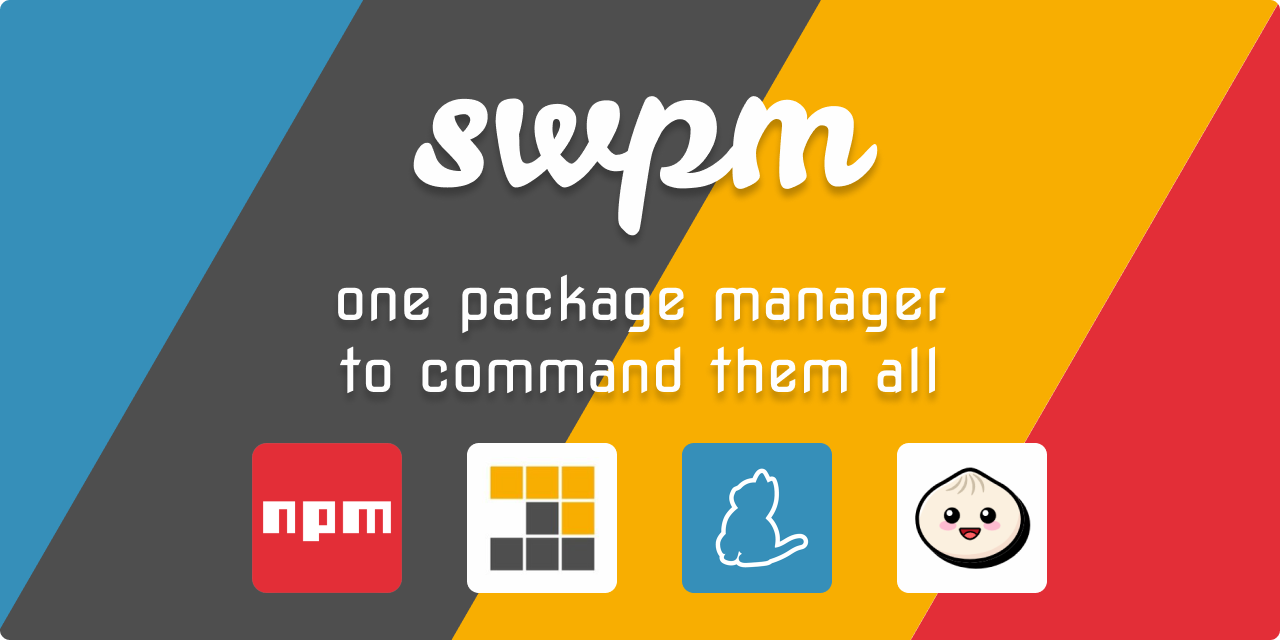
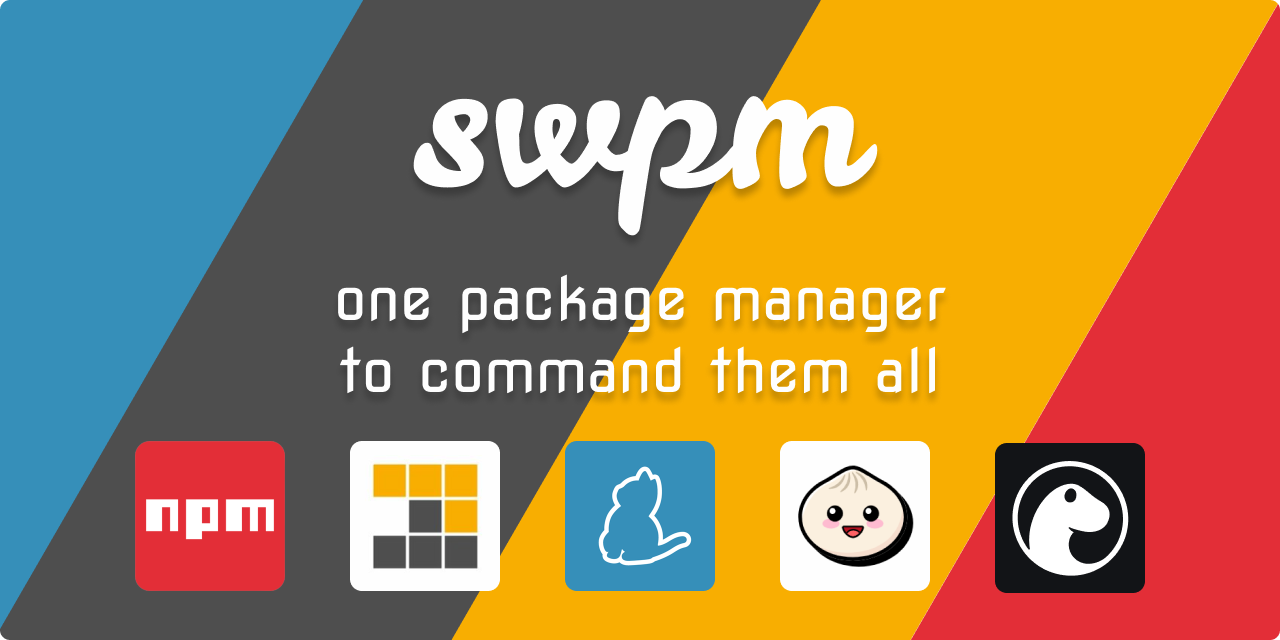
feat: add deno support

Changed region(s): [[0.0938, 0.6875, 0.9062, 0.9375]]

diff --git a/src/helpers/get.test.ts b/src/helpers/get.test.ts
@@ -1,5 +1,5 @@
 import { it, expect, describe, vi } from 'vitest'
-import { commandVerification, detectVoltaPin } from './get'
+import { commandVerification, detectVoltaPin, getCurrentPackageManager } from './get'
 import { CommanderPackage, PackageJson } from '../translator/commander.types'
 import { getPackageJson } from './files.js'
 
@@ -7,12 +7,13 @@ vi.mock('./files.ts', async () => {
   const mod = await vi.importActual<typeof import('./files.ts')>('./files.ts')
   return {
     ...mod,
-    getPackageJson: await vi.fn()
+    getPackageJson: vi.fn()
   }
 })
 
 describe('detectVoltaPin', () => {
   it('should return undefined if cmdr is undefined', async () => {
+    vi.mocked(getPackageJson).mockResolvedValue(undefined)
     const cmdr = undefined
     // @ts-expect-error cmdr is intentionally undefined
     const result = await detectVoltaPin(cmdr)
@@ -20,6 +21,7 @@ describe('detectVoltaPin', () => {
   })
 
   it('should return undefined if cmd in cmdr is undefined', async () => {
+    vi.mocked(getPackageJson).mockResolvedValue(undefined)
     const cmdr: CommanderPackage = {
       args: []
     }
@@ -81,5 +83,33 @@ describe('detectVoltaPin', () => {
     const isVoltaInstalled = await commandVerification('volta')
     const result = await detectVoltaPin(cmdr)
     expect(isVoltaInstalled && result).toBe(false)
+  })
+})
+
+describe('getCurrentPackageManager', () => {
+  it('should return deno if deno.json exists', async () => {
+    vi.mocked(getPackageJson).mockReset()
+    vi.mocked(getPackageJson).mockImplementation(async (fileName) => {
+      if (fileName === 'deno.json') {
+        return { name: 'deno-project' } as PackageJson
+      }
+      return undefined
+    })
+
+    const result = await getCurrentPackageManager()
+    expect(result).toEqual({ origin: 'lock', cmd: 'deno' })
+  })
+
+  it('should return deno if deno.jsonc exists', async () => {
+    vi.mocked(getPackageJson).mockReset()
+    vi.mocked(getPackageJson).mockImplementation(async (fileName) => {
+      if (fileName === 'deno.jsonc') {
+        return { name: 'deno-project' } as PackageJson
+      }
+      return undefined
+    })
+
+    const result = await getCurrentPackageManager()
+    expect(result).toEqual({ origin: 'lock', cmd: 'deno' })
   })
 })

diff --git a/src/cli/swpm/commands/add.test.ts b/src/cli/swpm/commands/add.test.ts
@@ -7,7 +7,8 @@ export const addCases = [
   ['yarn', 'yarn add vite'],
   ['yarn@berry', 'yarn add vite'],
   ['pnpm', 'pnpm add vite'],
-  ['bun', 'bun add vite']
+  ['bun', 'bun add vite'],
+  ['deno', 'deno add vite']
 ]
 
 describe('add', () => {
@@ -22,7 +23,8 @@ export const addDevCases = [
   ['yarn', 'yarn add vite --dev'],
   ['yarn@berry', 'yarn add vite --dev'],
   ['pnpm', 'pnpm add vite --save-dev'],
-  ['bun', 'bun add vite --dev']
+  ['bun', 'bun add vite --dev'],
+  ['deno', 'deno add vite --dev']
 ]
 
 describe('add --save-dev', () => {
@@ -38,7 +40,8 @@ describe('add --save-optional', () => {
     ['yarn', 'yarn add vite --optional'],
     ['yarn@berry', 'yarn add vite --optional'],
     ['pnpm', 'pnpm add vite --save-optional'],
-    ['bun', 'bun add vite --optional']
+    ['bun', 'bun add vite --optional'],
+    ['deno', 'deno add vite --optional']
   ])('%s', (pkg, expected) => {
     const result = testCommandResult(`swpm add vite --save-optional --test ${pkg}`)
     expect(result).toBe(expected)
@@ -51,7 +54,8 @@ describe('add --save-peer', () => {
     ['yarn', 'yarn add vite --peer'],
     ['yarn@berry', 'yarn add vite --peer'],
     ['pnpm', 'pnpm add vite --save-peer'],
-    ['bun', ''] // not available
+    ['bun', ''], // not available
+    ['deno', 'deno add vite --peer']
   ])('%s', (pkg, expected) => {
     const result = testCommandResult(`swpm add vite --save-peer --test ${pkg}`)
     expect(result).toBe(expected)
@@ -63,7 +67,8 @@ export const addSaveExact = [
   ['yarn', 'yarn add vite --exact'],
   ['yarn@berry', 'yarn add vite --exact'],
   ['pnpm', 'pnpm add vite --save-exact'],
-  ['bun', 'bun add vite --exact']
+  ['bun', 'bun add vite --exact'],
+  ['deno', ''] // not available
 ]
 
 describe('add --save-exact', () => {
@@ -86,7 +91,8 @@ export const addPackageCases = [
   ['yarn', 'yarn global add vite'],
   ['yarn@berry', 'yarn global add vite'],
   ['pnpm', 'pnpm add vite --global'],
-  ['bun', 'bun add vite --global']
+  ['bun', 'bun add vite --global'],
+  ['deno', 'deno add vite -g']
 ]
 
 const isVoltaInstalled = await commandVerification('volta')

diff --git a/src/helpers/get.ts b/src/helpers/get.ts
@@ -64,6 +64,18 @@ const searchForLockFiles = async () => {
   }
 }
 
+const searchForDenoConfig = async () => {
+  const denoJson = await getPackageJson('deno.json')
+  if (denoJson) {
+    return 'deno' as const
+  }
+
+  const denoJsonc = await getPackageJson('deno.jsonc')
+  if (denoJsonc) {
+    return 'deno' as const
+  }
+}
+
 const searchForEnv = (name: 'SWPM') => {
   if (!(name in env)) {
     return
@@ -76,7 +88,7 @@ const searchForEnv = (name: 'SWPM') => {
 
   console.error(stripIndents`
     ${chalk.red.bold('Error')}: the value (${chalk.bold(value)}) in SWPM environment variable is not valid.
-    Fix it using one of this values ${chalk.blue.bold('<npm|yarn[@berry]|pnpm|bun>')}.
+    Fix it using one of this values ${chalk.blue.bold('<npm|yarn[@berry]|pnpm|bun|deno>')}.
   `)
   exit(1)
 }
@@ -95,6 +107,11 @@ export const getCurrentPackageManager = async (): Promise<{origin: CommanderPack
     if (packageManager && packageExists(packageManager)) {
       return { origin: 'packageManager', cmd: packageManager }
     }
+  }
+
+  const deno = await searchForDenoConfig()
+  if (deno) {
+    return { origin: 'lock', cmd: deno }
   }
 
   const lock = await searchForLockFiles() as PackageManagerList
@@ -125,6 +142,8 @@ export const detectVoltaPin = async (cmdr: CommanderPackage) => {
   return (cmdr.cmd in packageJson[prop])
 }
 
+import { getCommandResult } from './cmds.js'
+
 export const commandVerification = async (cmd: PackageManagerList) => {
   try {
     await commandExists(cmd)
@@ -132,4 +151,18 @@ export const commandVerification = async (cmd: PackageManagerList) => {
   } catch {
     return false
   }
+}
+
+export const getPackageVersion = (cmd: PackageManagerList, volta: boolean) => {
+  const version = getCommandResult({ command: `${cmd} --version`, volta })
+
+  if (!version) {
+    return 'not found'
+  }
+
+  if (cmd === 'deno') {
+    return version.split('\n')[0]?.replace(/deno\s/, '') ?? 'not found'
+  }
+
+  return version
 }

diff --git a/src/packages/managers/deno.ts b/src/packages/managers/deno.ts
@@ -1,0 +1,51 @@
+import type { PackageConfiguration } from '../packages.types.js'
+
+const deno: PackageConfiguration = {
+  cmd: 'deno',
+  exc: 'deno run',
+  color: '#ffffff',
+  url: 'https://deno.com/',
+  semver: '>=2.0.0',
+  lockFiles: ['deno.lock'],
+  modulesPath: ['node_modules'],
+  modulesFile: ['deno.json', 'deno.jsonc'],
+  logFile: '',
+  install: 'deno install -g swpm',
+  cmds: {
+    remove: 'remove',
+    r: 'remove',
+    rm: 'remove',
+    un: 'remove',
+    up: ['outdated', '--update'],
+    ud: ['outdated', '--update'],
+    upgrade: 'add',
+    ug: 'add',
+    interactive: ['', -1],
+    run: 'task',
+    test: 'test',
+    init: 'init',
+    create: 'init',
+    build: ['', -1],
+    publish: 'publish',
+    outdated: 'outdated'
+  },
+  args: {
+    '--frozen': '--frozen',
+    '-F': '--frozen',
+    '--package-lock': '--no-lock',
+    '-P': '--no-lock',
+    '--save-dev': '--dev',
+    '-D': '--dev',
+    '--save-optional': '--optional',
+    '-O': '--optional',
+    '--save-peer': '--peer',
+    '--save-exact': ['', -1],
+    '-E': ['', -1],
+    '--global': '-g',
+    '-g': '-g',
+    '--latest': ['', -1],
+    '-L': ['', -1]
+  }
+}
+
+export default deno

diff --git a/src/helpers/files.ts b/src/helpers/files.ts
@@ -25,7 +25,7 @@ export const pathExists = async (path: string) => {
   }
 }
 
-export const getPackageJson = async (fileName: `${string}.json` = PACKAGE_NAME): Promise<PackageJson | undefined> => {
+export const getPackageJson = async (fileName: `${string}.json${'' | 'c'}` = PACKAGE_NAME): Promise<PackageJson | undefined> => {
   try {
     const closestPackageJsonPath = await findUp(fileName)
     if (!closestPackageJsonPath) {
@@ -48,7 +48,7 @@ export const lockFileExists = async (fileName: string) => {
   return fileExists(closestLockfilePath)
 }
 
-export const savePackageJson = async (data: PackageJson, fileName: string = PACKAGE_NAME) => {
+export const savePackageJson = async (data: PackageJson, fileName: `${string}.json${'' | 'c'}` = PACKAGE_NAME) => {
   const closestPackageJsonPath = await findUp(fileName)
   if (!closestPackageJsonPath) {
     console.error(`${chalk.red.bold('Error')}: there is no ${chalk.red.bold(fileName)} file on current path.`)

diff --git a/src/cli/swpm/commands/install.test.ts b/src/cli/swpm/commands/install.test.ts
@@ -6,7 +6,8 @@ export const installCases = [
   ['yarn', 'yarn install'],
   ['yarn@berry', 'yarn install'],
   ['pnpm', 'pnpm install'],
-  ['bun', 'bun install']
+  ['bun', 'bun install'],
+  ['deno', 'deno install']
 ]
 
 describe('install', () => {
@@ -21,7 +22,8 @@ export const installFrozenCases = [
   ['yarn', 'yarn install --frozen-lockfile'],
   ['yarn@berry', 'yarn install --immutable'],
   ['pnpm', 'pnpm install --frozen-lockfile'],
-  ['bun', 'bun install --frozen-lockfile']
+  ['bun', 'bun install --frozen-lockfile'],
+  ['deno', 'deno install --frozen']
 ]
 
 describe('install --frozen', () => {
@@ -36,7 +38,8 @@ export const installLockCases = [
   ['yarn', 'yarn install --no-lockfile'],
   ['yarn@berry', 'yarn install --no-lockfile'],
   ['pnpm', ''], // not available
-  ['bun', 'bun install --no-save']
+  ['bun', 'bun install --no-save'],
+  ['deno', 'deno install --no-lock']
 ]
 
 describe('install --package-lock', () => {

diff --git a/src/cli/swpm/commands/status.ts b/src/cli/swpm/commands/status.ts
@@ -1,7 +1,7 @@
 import { exit } from 'node:process'
 import { getCommandResult } from '../../../helpers/cmds.js'
 import { getSwpmInfo } from '../../../helpers/info.js'
-import { commandVerification } from '../../../helpers/get.js'
+import { commandVerification, getPackageVersion } from '../../../helpers/get.js'
 import { checkErrorMessage } from '../../../helpers/messages.js'
 import cmdr from '../../../translator/commander.js'
 
@@ -49,7 +49,7 @@ const status: CommandModule<Record<string, unknown>, StatusProps> = {
     const { version: swpmVersion } = await getSwpmInfo()
 
     const isInstalled = !!cmd && await commandVerification(cmd)
-    const packageVersion = isInstalled ? getCommandResult({ command: `${cmd} --version`, volta }) : 'not found'
+    const packageVersion = isInstalled ? getPackageVersion(cmd, volta ?? false) : 'not found'
 
     const data: StatusData = {
       _: cmd || 'unknown',

diff --git a/src/flags/info.ts b/src/flags/info.ts
@@ -5,7 +5,7 @@ import chalk from 'chalk'
 import { getCommandResult } from '../helpers/cmds.js'
 import { getOriginIcon } from '../helpers/icons.js'
 import { getSwpmInfo } from '../helpers/info.js'
-import { commandVerification } from '../helpers/get.js'
+import { commandVerification, getPackageVersion } from '../helpers/get.js'
 
 import type { CommanderPackage } from '../translator/commander.types.js'
 
@@ -55,7 +55,7 @@ export const showPackageInformation = async ({ cmd, origin, config, volta }: Com
   `
 
   const isInstalled = !!cmd && await commandVerification(cmd)
-  const packageVersion = isInstalled ? getCommandResult({ command: `${cmd} --version`, volta }) : 'not found'
+  const packageVersion = isInstalled ? getPackageVersion(cmd, volta ?? false) : 'not found'
   if (config?.cmd) {
     message += `${chalk.hex(color).bold(cmd)}: \t${packageVersion}`
   }

diff --git a/src/packages/list.ts b/src/packages/list.ts
@@ -3,6 +3,7 @@ import yarn from './managers/yarn.js'
 import yarnBerry from './managers/yarn@berry.js'
 import pnpm from './managers/pnpm.js'
 import bun from './managers/bun.js'
+import deno from './managers/deno.js'
 
 import type { PackageManagerList } from './packages.types.js'
 import type { CommanderPackage } from '../translator/commander.types.js'
@@ -12,7 +13,8 @@ const packageManagerList = [
   yarn,
   yarnBerry,
   pnpm,
-  bun
+  bun,
+  deno
 ]
 
 export const availablePackages = () => {

diff --git a/src/packages/list.test.ts b/src/packages/list.test.ts
@@ -3,7 +3,7 @@ import { availablePackages, packageExists, getPackageConfiguration } from './lis
 
 describe('availablePackages()', () => {
   it('should return a list of available packages', () => {
-    const expectedResult = ['npm', 'yarn', 'yarn@berry', 'pnpm', 'bun']
+    const expectedResult = ['npm', 'yarn', 'yarn@berry', 'pnpm', 'bun', 'deno']
     const result = availablePackages()
     expect(result).toMatchObject(expectedResult)
   })

diff --git a/src/packages/packages.types.ts b/src/packages/packages.types.ts
@@ -1,5 +1,5 @@
-type PackageManagers = 'pnpm' | 'npm' | 'yarn' | 'yarn@berry' | 'bun'
-type ExecuteManagers = 'pnpm dlx' | 'npx' | 'yarn dlx' | 'bunx'
+type PackageManagers = 'pnpm' | 'npm' | 'yarn' | 'yarn@berry' | 'bun' | 'deno'
+type ExecuteManagers = 'pnpm dlx' | 'npx' | 'yarn dlx' | 'bunx' | 'deno run'
 type VersionManagers = 'volta'
 export type PackageManagerList = PackageManagers| ExecuteManagers | VersionManagers
 

diff --git a/src/cli/swpm/commands/done.ts b/src/cli/swpm/commands/done.ts
@@ -1,4 +1,5 @@
-// Add done command logic here
-export async function doneCommand(cmdr) {
+import type { CommanderPackage } from '../../../translator/commander.types.js'
+
+export async function doneCommand(cmdr: CommanderPackage) {
   console.log('Done command executed')
 }
